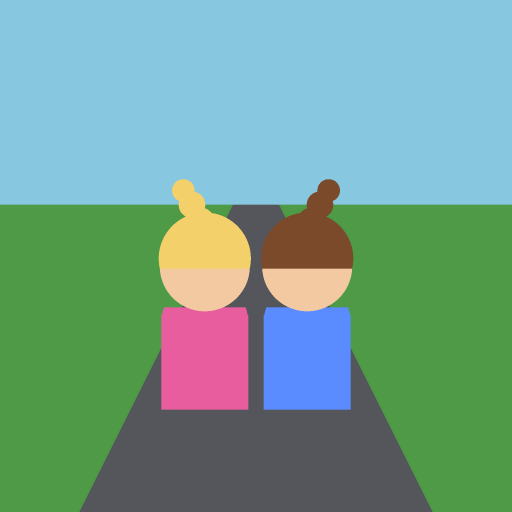
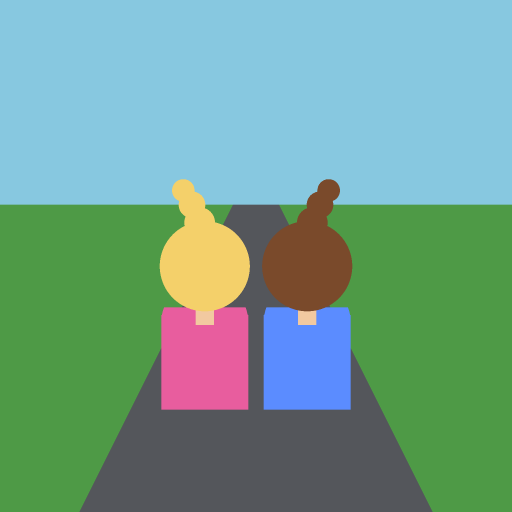
Fix hair rendering: full hair on back of head, not a bottom-half cap
The hair-cap arc covered the lower half of the head circle, leaving a
skin-colored 'bald' top. Seen from behind, the whole head is hair —
now a full hair circle with a soft shine, plus a skin neck sliver.
Same fix applied to the generated app icons.

Changed region(s): [[0.3125, 0.4062, 0.6875, 0.6562]]

diff --git a/index.html b/index.html
@@ -647,14 +647,16 @@
     ctx.fillStyle = shirtColor;
     rr(cx - bodyW/2, groundY - bodyH*0.65, bodyW, bodyH*0.7, 8*s);
 
-    // head
+    // neck — sliver of skin between shirt and hair
     ctx.fillStyle = '#f2c9a0';
-    ctx.beginPath(); ctx.arc(cx, groundY - bodyH*0.65 - headR*0.7, headR, 0, 7); ctx.fill();
-    // hair cap over back of head
+    ctx.fillRect(cx - 4.5*s, groundY - bodyH*0.75, 9*s, 9*s);
+    // head — seen from behind, so it's ALL hair
+    const headY = groundY - bodyH*0.65 - headR*0.7;
     ctx.fillStyle = hairColor;
-    ctx.beginPath(); ctx.arc(cx, groundY - bodyH*0.65 - headR*0.7, headR, Math.PI*0.05, Math.PI*0.95, false);
-    ctx.fill();
-    ctx.fillRect(cx-headR, groundY - bodyH*0.65 - headR*0.9, headR*2, headR*0.7);
+    ctx.beginPath(); ctx.arc(cx, headY, headR, 0, 7); ctx.fill();
+    // soft shine on the hair
+    ctx.fillStyle = 'rgba(255,255,255,0.16)';
+    ctx.beginPath(); ctx.arc(cx - headR*0.33, headY - headR*0.35, headR*0.3, 0, 7); ctx.fill();
 
     // PONYTAIL — the signature. Swings opposite to the step.
     ctx.strokeStyle = hairColor; ctx.lineWidth = 7*s; ctx.lineCap='round';